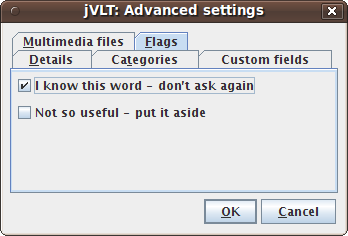
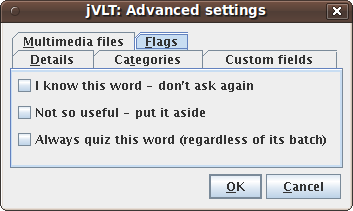
Updated documentation
git-svn-id: https://svn.code.sf.net/p/jvlt/code/trunk@583 2e8f9017-362f-4c5f-8fba-3cd18fd43268

diff --git a/jvlt-main/doc/default/doc-quizzes.html b/jvlt-main/doc/default/doc-quizzes.html
@@ -190,6 +190,13 @@ If the check mark next to this option is visible, the words' batches are
 updated after a quiz even if the expiry time is ignored during a quiz.
 </li>
 
+<li>
+<b>Play audio files when answer is shown:</b>
+If there is an audio file assigned to a word it is played once the answer for
+this word is shown during a quiz. In case multiple audio files have been
+specified for a word only the first one is played.
+</li>
+
 </ul>
 
 
@@ -240,6 +247,9 @@ words you did not know. Afterwards two lists are displayed which show those
 words you knew and those you did not know, respectively. If you mistakenly
 classified known words as not known or vice versa, you can now correct
 your mistakes by selecting the respective words and press the arrow buttons.
+You can also assign <a href="doc-vocabulary.html#advanced_settings_flags">
+flags</a> to the words that were quizzed by selecting the
+check boxes in the two lists.
 At last, you can decide whether to save the results of this quiz so they
 can be taken into account for future quizzes.<br>
 <br>

diff --git a/jvlt-main/doc/default/doc-vocabulary.html b/jvlt-main/doc/default/doc-vocabulary.html
@@ -237,6 +237,8 @@ Currently, there are the following flags.
 
 <li>Not so useful - put it aside</li>
 
+<li>Always quiz this word (regardless of its batch)</li>
+
 </ul>
 
 <p>
